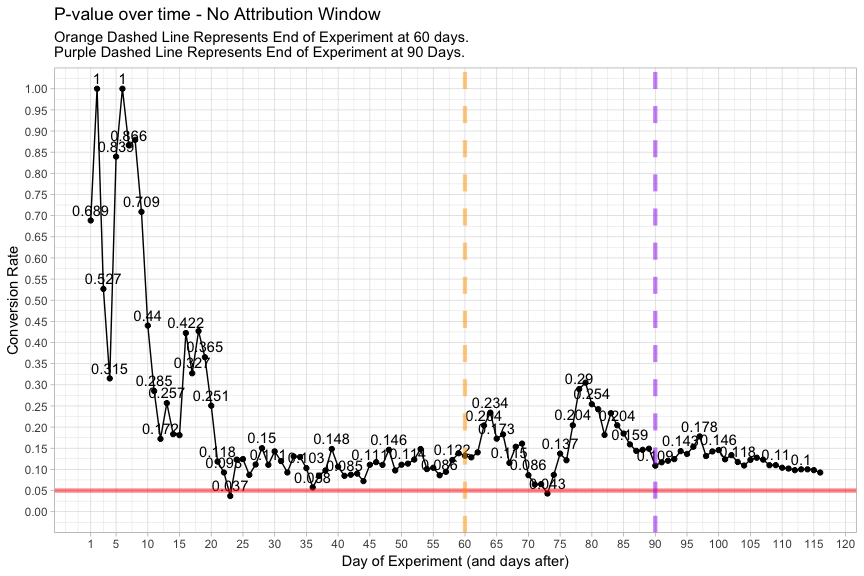
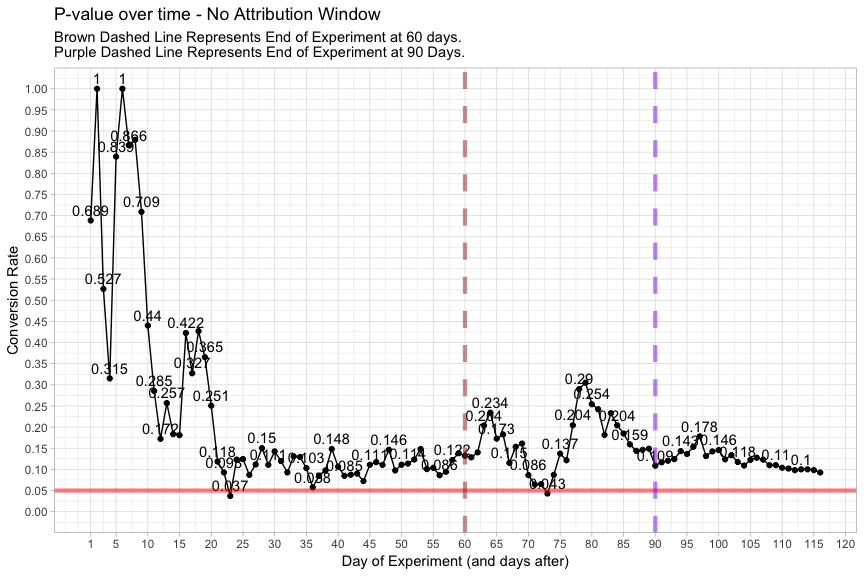
AWS - "final" changes

diff --git a/attribution-window-effects/attribution-window-simulation.md b/attribution-window-effects/attribution-window-simulation.md
@@ -1,5 +1,3 @@
-true
-
 A/B Tests, Diminishing Lift, & Attribution Windows
 ==================================================
 
@@ -37,7 +35,7 @@ the control. My assumption is that, despite the overall outperformance
 (i.e. the "lift") of the variant, the lift is highest in the first
 moments that it is seen by each person, and then decreases over time,
 such that the longer it takes the person to convert, the less impact
-that the variant had (relative to the control) on their conversion
+that the variant has (relative to the control) on their conversion
 decision. In other words, the variant has provided an **immediate lift**
 but the lift diminishes over time, such that the people in the `A` and
 `B` groups who are converting sometime in the future (say, at the
@@ -47,23 +45,23 @@ We can probably make similar statements for (perhaps) days, (mostly
 likely) weeks, and (certainly) months after the variation is seen.
 
 If true, obviously the rate (or distribution of) of diminishing lift and
-the time-period it takes to completely diminish depends on the
-product/experiment/target-market/etc..
+the time-period it takes for the lift to completely diminish depends on
+the product/experiment/target-market/etc..
 
 The concern is that, if a sub-population in our experiment (belonging to
 both the control group and the variant group) are converting at the same
-rates, **despite any immediate lift the variant has**, then when look at
-the results of the A/B test, those conversions are diluting, or masking,
-the immediate lift that the variant gives, and we might conclude that
-the variant has little or no effect. So, a contrived example would be:
-for a given experiment, the variant has a 7% statistically significant
-*immediate lift* (i.e. for the people who convert within, say, 2 days,
-the variant out-performs the control by a relative 7% increase in the
-conversion rate) but when looking at the entire population (let's say
-they have all been given a month to convert, and we analyze the results
-a month after the experiment ends), the lift is only 3% and not
-statistically significant. Is this type of contrived example realistic
-under some reasonable assumptions?+++
+rates, **despite the immediate lift the variant has**, then when we
+evaluate the results of the A/B test, those conversions are diluting, or
+masking, the immediate lift that the variant gives, and we might
+conclude that the variant has little or no effect. So, a contrived
+example would be: for a given experiment, the variant has a 7%
+statistically significant *immediate lift* (i.e. for the people who
+convert within, say, 2 days, the variant out-performs the control by a
+relative 7% increase in the conversion rate) but when looking at the
+entire population (let's say they have all been given a month to
+convert, and we analyze the results a month after the experiment ends),
+the lift is only 3% and not statistically significant. Is this type of
+contrived example realistic under some reasonable assumptions?+++
 
 So, the first question is: **How does the diminishing lift of the
 variant, over time, affect the outcome of the experiment?**
@@ -78,9 +76,8 @@ experiment was seen to the conversion date). The other assumption
 implied above was that this decrease was from the fact that, when
 grouping people by the amount of days it takes them to convert, the
 conversion rates of both groups start to converge as the lift from the
-variant diminishes. And the more conversions that we count that in the
-variant that have diminished lift, the more diluted the results
-became.++++
+variant diminishes. And the more conversions that we count that have
+diminished lift, the more diluted the results became.++++
 
 But, the typical process for A/B testing doesn't seem to consider/use an
 attribution windows at all: You run a test for, say, 30 days (depending
@@ -108,16 +105,14 @@ below will show up in *every* A/B test, it is only to show what is
 who either A) more susceptible to psychological manipulation (e.g. mind
 hacks, high pressure sales tactics, buying things based on whether it's
 sunny or dark outside, etc.) and/or B) wanting to make an immediately
-decision and/or C) impulsive buyers. At the very least, it seems like
-the target segment of A/B tests is the subpopulation of the target
-market that takes less time to make decisions and/or has a more
-immediate need. But, that's a direction I don't want to go right now.
-The caveat to this is that, there are of course experiments that you run
-where, for example, you've completely redesigned your product and that
-new experience does have a long-lasting impact on the customers'
-decision. In those cases, the lift is high enough that any concerns we
-deal with here are probably going to disappear from the large lift. I
-assume that's not the case for most A/B tests.*
+decision and/or C) impulsive buyers, and/or etc.. But, that's a
+direction I don't want to go right now. Of course, there caveat to this
+is that there are experiments you run where, for example, you've
+completely redesigned your product and the new experience does have a
+long-lasting impact on the customers' decision. In those cases, the lift
+is high enough that any concerns we deal with here are probably going to
+disappear from the large lift. I assume that's not the case for most A/B
+tests.*
 
 +++*It’s worth noting that, for this example, the overall lift of the
 variant on the entire population is, indeed, only 3%. My point is not
@@ -127,22 +122,22 @@ compared with others. So, are you trying to detect a 3% change to the
 entire population, or a 7% change of the population that is inherently
 more affected by A/B tests?*
 
-++++*An issue rated to note(+++) is the required sample size (and,
-therefore, duration) of the experiment in order to detect the lift, if
-it exists. There are two relevant trade-offs. One trade-off is that
-using a smaller attribution window leads to lower conversion rates (i.e.
-you are only counting a subset of conversions). All other things
-considered, a lower conversion rate requires a larger sample size. So,
-detecting a 5% change with a baseline conversion rate of 20% takes
-longer to test than with a baseline conversion rate of 30%. On the other
-hand, if you capture enough signal in the immediate lift (again, if it
-exists) and reduce a lot of the noise from the diminishing lift, a
-smaller attribution window will increase the lift found. So for example,
-the sample size required to detect a 3% change (from the control to the
-variant) is a lot larger than the sample size required to detect a 7%
-change. Therefore, in order to use attribution windows, the assumption
-is that these tradeoffs have to either balance out, or at least don’t
-affect the feasibility of running the A/B test.*
+++++*An issue rated to note(+++) is the sample size (and, therefore,
+duration) of the experiment required to detect the lift, if it exists.
+There are two relevant trade-offs. One trade-off is that using a smaller
+attribution window leads to lower conversion rates (i.e. you are only
+counting a subset of conversions). All other things considered, a lower
+conversion rate requires a larger sample size. So, detecting a 5% change
+with a baseline conversion rate of 20% takes longer to test than with a
+baseline conversion rate of 30%. On the other hand, if you capture
+enough signal in the immediate lift (again, if it exists) and reduce a
+lot of the noise from the diminishing lift, a smaller attribution window
+will increase the lift found. So for example, the sample size required
+to detect a 3% change (from the control to the variant) is a lot larger
+than the sample size required to detect a 7% change. Therefore, in order
+to use attribution windows, the assumption is that these tradeoffs have
+to either balance out, or at least don’t affect the feasibility of
+running the A/B test.*
 
 ------------------------------------------------------------------------
 
@@ -150,11 +145,11 @@ Simulate A/B Groups
 -------------------
 
 Let's simulate a 60-day experiment where ~`1,333` people enter the
-experiment daily, giving a total of about `80,000` are part of the
-experiment after 60 days.
+experiment daily, giving a total of about `80,000` trials during the
+60-day experiment.
 
 Then we'll randomly assign people into group `A` or group `B`, based on
-a random number generator, which will be roughly `40,000` per randomized
+a random number generator, which will be about `40,000` per randomized
 variation.
 
 ![](attribution-window-simulation_files/figure-markdown_strict/create_traffic-1.png)
@@ -168,10 +163,10 @@ Now, we'll give everyone a baseline conversion rate of `10.0%`.
 
 Specifically, we'll assign each person a conversion rate (i.e.
 probability), then take a random sample from the binomial distribution
-using their probability to determine if that person converted.
+using their assigned probability to determine if that person converted.
 
-Let's simulate the conversion for each person and see the overall
-conversion rates for each variation.
+Let's simulate the conversion decision for each person and see the
+overall conversion rates for each variation.
 
 ![](attribution-window-simulation_files/figure-markdown_strict/create_conversion_rate2-1.png)
 
@@ -187,7 +182,9 @@ equivalent to an `A`/`A` test.
 ### Simulate `7.00%` Increase in Group B
 
 Now, let's simulate everyone in the `B` group having a `7.00%` increase
-(due from the effects of the new variant we are testing out.)
+from the treatment effects of the new variant we are testing out. So
+`B`'s conversion rate is now `10.7%` (i.e. `10.0%` + (`10.0%` \*
+`7.00%`))
 
 ![](attribution-window-simulation_files/figure-markdown_strict/unnamed-chunk-2-1.png)
 
@@ -231,8 +228,8 @@ We have to do 2 things.
 First, we have to **simulate people converting at different lengths of
 time, relative to when they saw the experiment**.
 
-Second, we have to **simulate the effect of the experiment diminishing
-over time**.
+Second, we have to **simulate the effect of the lift diminishing over
+time**.
 
 ### Simulate the Number of Days from Entering the Experiment to Converting
 
@@ -240,13 +237,17 @@ over time**.
 
 Everyone in the simulation is assigned a random number (based on a
 modified Gamma distribution) that represents the number of days that
-will take to convert **if they convert**. They are assigned the number
-before the binomial distribution determines if they convert. The reason
-for this is technical and intuitive. The technical reason is that the
-probability given to the binomial distribution will be based on the
-final probability assigned to the person which will be based on the
-number of days they are assigned and the diminishing effect calculated
-below. One intuitive reason (maybe a justification), is that this number
+will take to convert, **if they convert**.
+
+They are assigned the number before the binomial distribution determines
+if they convert. The reason for this is technical and intuitive.
+
+The technical reason is that the probability given to the binomial
+distribution will be based on the final probability assigned to the
+person, which will be based on the number of days they are assigned and
+the diminishing effect calculated below.
+
+One intuitive reason (maybe a justification), is that this number
 incorporates a lot of assumptions and characteristics about each person
 that we can't directly simulate: the buying impulse of the person, the
 degree of immediate need, the person's general thoughtfulness and
@@ -275,15 +276,16 @@ distribution), then that person will get the full effect of the lift of
 the variant (i.e. they will get `100%` (top of the curve) of the `7.00%`
 lift). On the other hand, if the person converts 30 days after seeing
 the experiment, they experience very little lift from the experiment
-(the lift is not quite `0%`, but close.)
+(the lift is not quite `0%`, but close).
 
 The rate of the diminishing effect of an experiment is large assumption
 of this simulation. This is my best guess at a reasonable rate, and
 depending on the product/service/experiment, this graph will certainly
 change.
 
-Now let's apply the "Percent of Lift Applied" to the Baseline Conversion
-Rate and the Lift in the Variant.
+Now let's apply the "Relative Effect" of the lift and show the
+conversion rates for each variation, according to how long it takes a
+person to convert.
 
 ![](attribution-window-simulation_files/figure-markdown_strict/unnamed-chunk-5-1.png)
 
@@ -298,23 +300,23 @@ of the lift, and people who take a long time to convert, convert at the
 same rate as the baseline conversion rate (which is the same rate as the
 `A` group).
 
-We can take our graph from above and show how the diminished effect
+We can take our graph from above and show how the diminishing effect
 influences the conversion rate of the people assigned to various days.
 
 ![](attribution-window-simulation_files/figure-markdown_strict/unnamed-chunk-6-1.png)
 
 **This is the key point**. The longer it takes people to convert, the
-less **lift** there is, and the more of these conversions you allow into
-your results, the more it will mask the immediate lift. The "immediate
-lift" is symbolized in the graph above with a light blue color in the
-`B` group.
+less **lift** there is, and the more conversions you allow into your
+results (from people who take longer to convert), the more it will mask
+the immediate lift. The "immediate lift" is visualized in the graph
+above with a light blue color in the `B` group.
 
 No such effect exists in the `A` group because they maintain the
 baseline conversion rate (there is no lift and nothing to diminish).
 
 **The people who convert &gt;= ~15 days from when they saw the variant,
 start to become much less affected by the variant and start to convert
-at the same rates as the control group.**
+at similar rates as the control group.**
 
 Another way of saying this is it's likely that the people who converted
 after 30 days were going to do so anyway, with or without the thing you
@@ -341,25 +343,55 @@ last simulation.
 The P-value is no longer statistically significant: `0.2069618`
 
 But, in truth, what we did above isn't exactly the same as running a
-test, shutting it off, and then analyzing the results. I ran the
-experiment for 30 days, but still gave people unlimited time to convert,
-as I haven't brought in the effects of attribution windows yet. So,
-let's examine what the p-values and lift look like over-time. We'll
-simulate running the experiment for 30 days (as I did above), but we'll
-allow an additional 14 days after the experiment for everyone to convert
-(so the people entering the experiment get 14 days). This is actually
-forcing an attribution window of varying degrees. It forces a 14-day
-attribution window for the people who entered the experiment on the last
-day, an 15-day attribution window for the people that enter the day
-before, and so on. I chose 14 days because I want to limit the effects
-of the attribution-window-like effect you would see if I chose a 2-day
-or 7-day window, like I will below.
+test, shutting it off, and then analyzing the results. I ran/simulated
+the experiment for `60` days, but still gave people unlimited time to
+convert, so that I could show a fair comparison against what we've
+previously done.
+
+What we might do, for example, is run a test for 60 days, shut off the
+test, and look at the results on that day. (Alternatively, we could have
+allowed everyone in the experiment an additional 7 days to convert, to
+give people at the end of the experiment a fair chance to convert. But
+we'll ignore this scenario, since it doesn't affect the main point.)
+
+Let's look at the conversion rates, p-values, and percent change (from
+A's conversion rate to B's conversion rate) over time. I'll show what
+the numbers would look like if we shut of the experiment at day `60`
+(brown dashed line) and day `90` (purple dashed line).
 
 ![](attribution-window-simulation_files/figure-markdown_strict/unnamed-chunk-9-1.png)
+
+The phenomenon of the conversion rates starting at very low, and
+plateauing is from the fact that, of the ~`10.0%` or so people that will
+convert, only a fraction will do so on the first day; and as time goes
+on, you have the built up momentum from everyone that has previously
+entered into the experiment, starting to convert.
+
+The bump at the end of `90` days is because I only simulated `90` days
+of data. After `90` days, the number of trials (denominator) stops
+increasing, but the number of conversions keeps going up because our
+distribution of "days from entering experiment to converting" is over a
+duration of 30 days. This is the same effect you would see if you
+actually shut off your experiment on day `90` and still counted
+conversions (for the next 30 days).
 
 ![](attribution-window-simulation_files/figure-markdown_strict/unnamed-chunk-10-1.png)
 
 ![](attribution-window-simulation_files/figure-markdown_strict/unnamed-chunk-11-1.png)
+
+You can see from the two graphs above that, **in this simulation**, the
+lower/diluted percent change between conversion rates i.e. lift
+(compared with the immediate lift of `7.00%`) is not large enough to be
+statistically significant, for all but a few instances during the
+experiment. It **appears** what is happening is we are not capturing
+enough of our signal, which seems to support the concern of diminishing
+lift.
+
+Please note that this exact effect is far from guaranteed, even if the
+concerns of diminishing lift are valid. For example, if the overall and
+immediate lift were higher, it's possible that even the diluated lift
+would still be statistically significant if there was a large enough
+effect and/or sample size.
 
 Attribution Windows
 -------------------
@@ -369,27 +401,53 @@ So, we've seen the potential impact that diminishing lift can have.
 But so far, we haven't considered how we can use attribution windows, or
 if we should.
 
-Let's simulate a 5-day attribution window. In other word, we will only
+Let's simulate a `5`-day attribution window. In other word, we will only
 count conversion events that happen within 5 days from the day that the
 person entered the experiment.
 
-![](attribution-window-simulation_files/figure-markdown_strict/unnamed-chunk-13-1.png)
+![](attribution-window-simulation_files/figure-markdown_strict/unnamed-chunk-12-1.png)
 
 The P-value is once again statistically significant: `0.0253603`.
 (Although, to be fair, it might not have been if we didn't have a
-sufficient sample size.)
+sufficient sample size.) Because we are using a `5` day attribution
+window, this is the p-value you would get if you were to shut of the
+test and wait `5` days for the rest of the potential conversions to
+accumulate.
 
 In this case, it appears we have reduced enough of the noise from the
 effects of the diminished lift and captured enough signal.
 
-Now, `B`'s conversion rate is only `4.88%` because we are only counting
-the people who converted within 7-days from when they entered they
-experiment. But, it is a `6.86%` increase over `A`'s conversion rate of
-`4.55%`.
+Now, `B`'s conversion rate is only `4.88%` (and is much smaller than the
+"true" conversion rate) because we are only counting the people who
+converted within `5` days from when they entered they experiment. But,
+it is a `6.86%` increase over `A`'s conversion rate of `4.55%`.
 
-![](attribution-window-simulation_files/figure-markdown_strict/unnamed-chunk-15-1.png)
+![](attribution-window-simulation_files/figure-markdown_strict/unnamed-chunk-14-1.png)
 
-![](attribution-window-simulation_files/figure-markdown_strict/unnamed-chunk-16-1.png)![](attribution-window-simulation_files/figure-markdown_strict/unnamed-chunk-16-2.png)
+Notice that, because we are using an attribution window, our conversion
+rate **trend** is much more stable over time. Notice that information
+doesn't start showing up until day `6`, because we have to allow
+everyone `5` to convert. Therefore, unlike the conversion rates (and
+p-values, etc.) over time, above, here each increase in the denominator
+is paired with it's conversion (or non-conversion).
+
+![](attribution-window-simulation_files/figure-markdown_strict/unnamed-chunk-15-1.png)![](attribution-window-simulation_files/figure-markdown_strict/unnamed-chunk-15-2.png)
+
+Again, **in this simulation**, the use of attribution windows allows us
+to extract more of the signal and, aside from the start of the
+experiment (which is expected), and a few sporatic days throughout, we
+now see that the result is statistically significant. Even though the
+attribution window decreases the **absolute** conversion rate we use,
+**in this case**, it increases the **percent change** in conversion
+rates. So at a smaller conversion rate, we see (and can detect) a larger
+effect.
+
+As noted in the last section, this exact effect is far from guaranteed,
+even if the proposal of an attribution window is valid. For example,
+it's possible that the chosen attribution window wouldn't capture enough
+signal, and even if it captured most of the expected immediate lift,
+it's possible the absolute conversion rates would be so low that the
+sample size required to detect the effect wouldn't be large enough.
 
 Conclusion
 ----------
